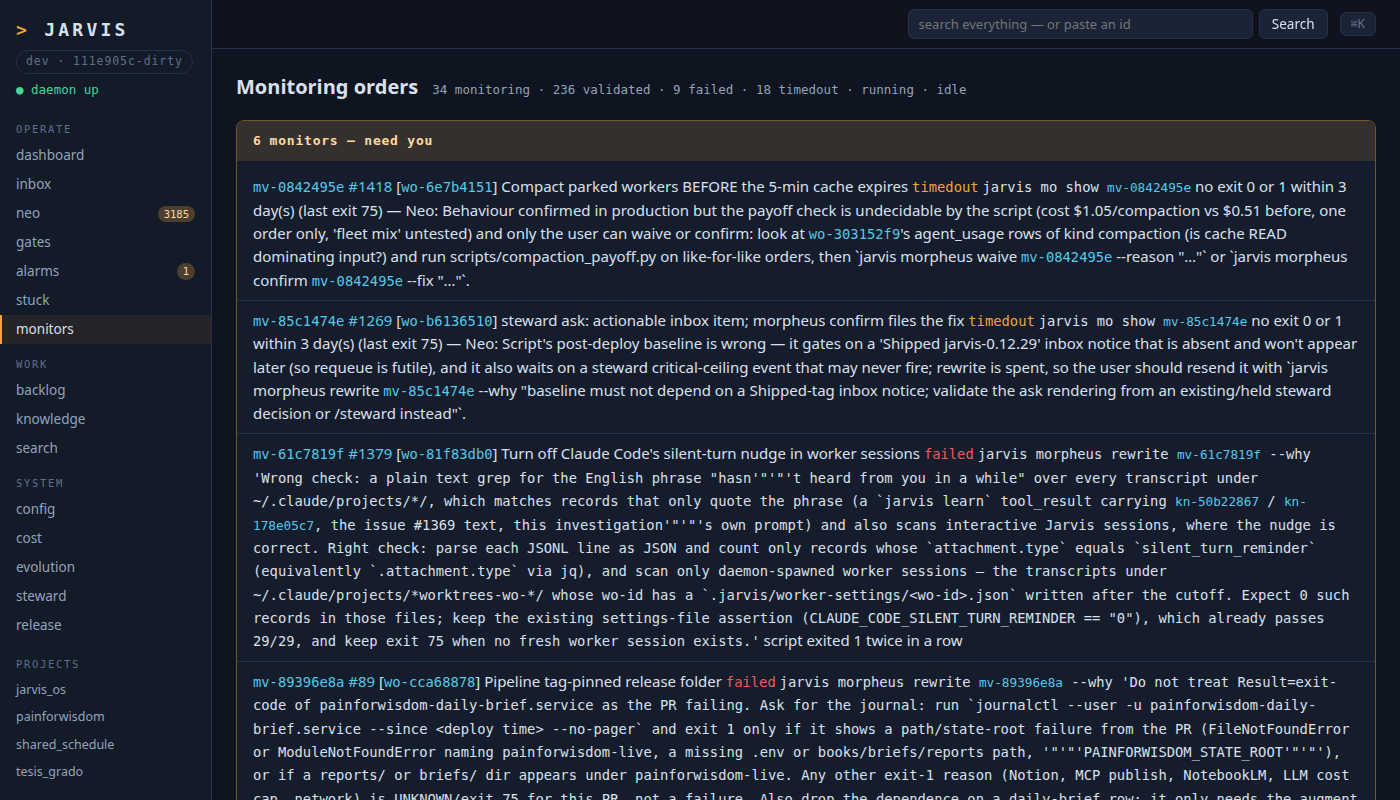
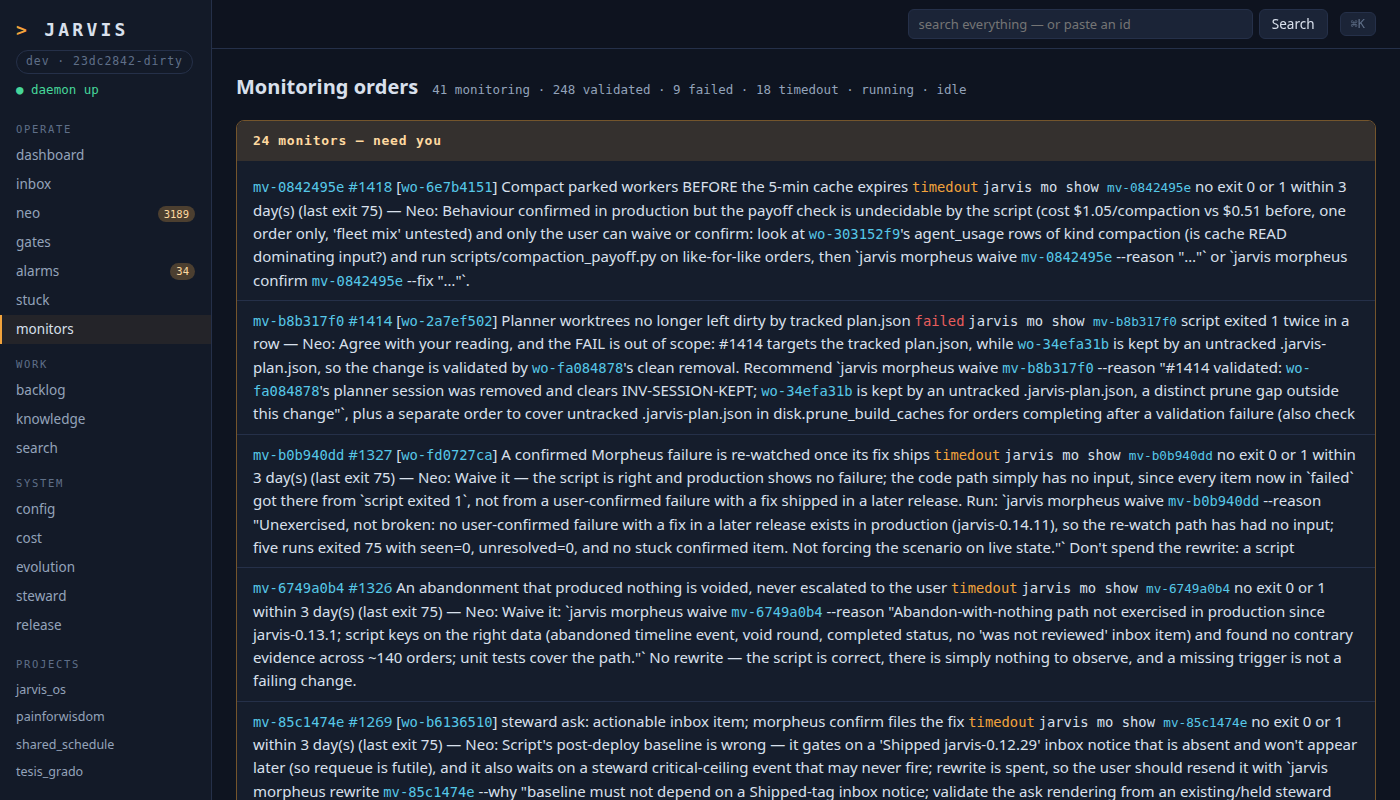
[wo-13fbfacb] Row still failed after Neo answered is the user's
Nothing moves it; ruling of 2026-11-05 (wo-ea6895e7) says user is told.

Claude-Session: https://claude.ai/code/session_01QUrrkgS69mRuTamdUKvZrz

diff --git a/src/jarvis/morpheus.py b/src/jarvis/morpheus.py
@@ -724,10 +724,8 @@ def owed_by(item: dict[str, Any], question: dict[str, Any] | None = None,
     look = f"jarvis mo show {item['id']}"
     kind = action.partition(":")[0]
     if kind == "neo" and question:
-        if question["status"] == "answered":
-            # A user's answer moves no row (Q3605); Neo's own leaves it to the OS (kn-1f7ca96a)
-            return ("user", look) if question.get("answered_by") == "user" else ("os", "")
-        if question["status"] not in ("escalated", "refined", "lapsed"):
+        # Answered and still failed: nothing moves it, so it is the user's (wo-ea6895e7 ruling)
+        if question["status"] not in ("answered", "escalated", "refined", "lapsed"):
             return "neo", ""
     elif kind in ("investigation", "improvement") and order:
         if order.get("needs_attention"):

diff --git a/tests/test_morpheus.py b/tests/test_morpheus.py
@@ -2009,7 +2009,7 @@ def test_the_detail_shows_its_session_and_cost_only_when_the_bill_exists(central
     ("failed", f"{morpheus.JUDGE_CLAIM}1", None, None, "os"),
     ("failed", "neo:1", {"status": "queued"}, None, "neo"),
     ("failed", "neo:1", {"status": "failed"}, None, "neo"),
-    ("failed", "neo:1", {"status": "answered", "answered_by": "neo"}, None, "os"),
+    ("failed", "neo:1", {"status": "answered", "answered_by": "neo"}, None, "user"),
     ("timedout", "neo:1", {"status": "answered", "answered_by": "user"}, None, "user"),
     ("timedout", "neo:1", {"status": "escalated"}, None, "user"),
     ("timedout", "neo:1", {"status": "lapsed"}, None, "user"),
